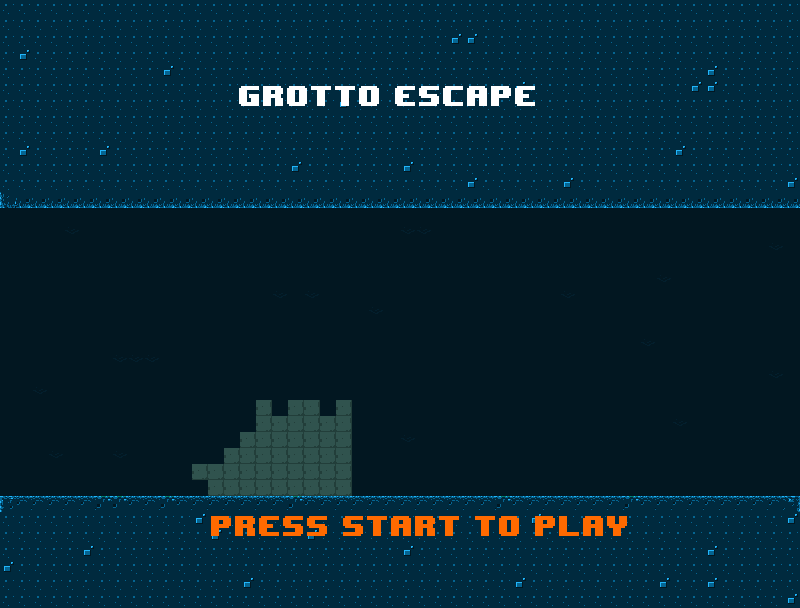
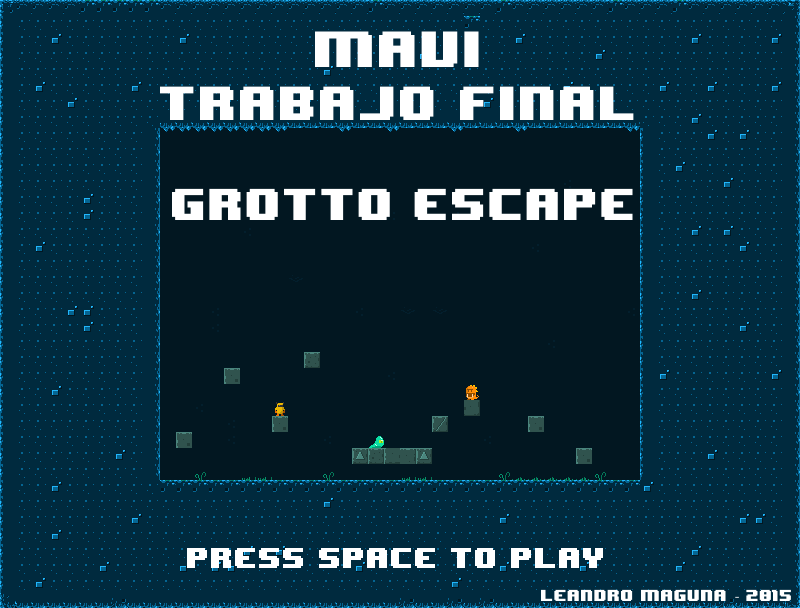
Changed intro scene. Added firemonster collision.

diff --git a/GrottoEscape/GrottoEscape/Game.cpp b/GrottoEscape/GrottoEscape/Game.cpp
@@ -64,6 +64,7 @@ void Game::HandleInput()
 					if (evento.key.code == sf::Keyboard::Escape)
 					{
 						currentState = GameStates::INTRO;
+						wnd->setView(wnd->getDefaultView());
 						main->stop();
 					}
 						
@@ -117,14 +118,11 @@ void Game::MainLoop()
 	map->Load("map_test.tmx");
 	sf::Clock frameClock;
 	sf::Time frameTime;
-	//Player* mPlayer = new Player(wnd,ml.GetLayers());
-	//mPlayer = new Player(wnd, ml.GetLayers());
-	sf::View view;
+
 	view.reset(sf::FloatRect(0, 0, 800/2, 600/2));
 	view.setViewport(sf::FloatRect(0, 0, 1.0f, 1.0f));
 	sf::Vector2f viewPosition(800 / 2, 600 / 2);
 	view.zoom(0.6f);
-
 	sf::Clock clock;
 	sf::Time timeSinceLastUpdate = sf::Time::Zero;	
 
@@ -146,11 +144,7 @@ void Game::MainLoop()
 
 	layers = map->GetLayers();
 
-	hBar = new HealthBar(view.getCenter());
-
-
-
-	
+	hBar = new HealthBar(view.getCenter());	
 
 	while(wnd->isOpen())
 	{
@@ -201,7 +195,7 @@ void Game::MainLoop()
 
 			hBar->setPosition(view.getCenter().x - 105, view.getCenter().y - 75);
 
-		
+			wnd->setView(view);
 
 			if (mPlayer->Succeded() || mPlayer->Dead())
 				main->stop();
@@ -211,8 +205,9 @@ void Game::MainLoop()
 			timeSinceLastUpdate = sf::Time::Zero;
 			clock.restart();
 		}
-			
-		wnd->setView(view);
+
+		
+		
 		HandleInput();
 		
 		Draw();
@@ -284,6 +279,7 @@ void Game::Draw()
 
 		for (size_t i = 0; i < fireMonsters.size(); i++)
 		{
+			if (fireMonsters.at(i)->IsActive())
 			wnd->draw(*fireMonsters.at(i));
 		}
 
@@ -318,6 +314,9 @@ void Game::HandleCollision()
 {
 	for (size_t i = 0; i < fireMonsters.size(); i++)
 	{
+		if (!fireMonsters.at(i)->IsActive())
+			continue;
+
 		if (fireMonsters.at(i)->getGlobalBounds().intersects(mPlayer->getGlobalBounds()))
 			mPlayer->Hit(2);
 	}
@@ -360,6 +359,19 @@ void Game::HandleCollision()
 				if (areaCollision.width >= 10)
 				{
 					slimes.at(j)->Die();
+					mPlayer->bullets.at(i)->SetActive(false);
+				}
+			}
+		}
+
+		for (size_t j = 0; j < fireMonsters.size(); j++)
+		{
+			if (mPlayer->bullets.at(i)->getGlobalBounds().intersects(fireMonsters.at(j)->getGlobalBounds(), areaCollision) && fireMonsters.at(j)->IsActive())
+			{
+				//hack to avoid bullet collision with sprites's transparent area
+				if (areaCollision.width >= 10)
+				{
+					fireMonsters.at(j)->TakeDamage();
 					mPlayer->bullets.at(i)->SetActive(false);
 				}
 			}

diff --git a/GrottoEscape/GrottoEscape/FireMonster.cpp b/GrottoEscape/GrottoEscape/FireMonster.cpp
@@ -29,7 +29,7 @@ FireMonster::FireMonster(sf::Vector2f position, std::vector<tmx::MapLayer> colli
 	jumpRate = 3.0f;
 	jumpTime = 0;
 	setPosition(position);
-
+	active = true;
 }
 
 
@@ -39,7 +39,9 @@ FireMonster::~FireMonster()
 
 void FireMonster::Update(sf::Time dt)
 {
-	
+	if (!IsActive())
+		return;
+
 	jumpTime += dt.asSeconds();
 
 	if (jumpTime >= jumpRate)
@@ -104,4 +106,22 @@ void FireMonster::HandleCollision()
 			}
 		}
 	}
+}
+
+bool FireMonster::IsActive()
+{
+	return active;
+}
+
+void FireMonster::SetActive(bool active)
+{
+	this->active = active;
+}
+
+void FireMonster::TakeDamage()
+{
+	hit++;
+
+	if (hit == 2)
+		SetActive(false);
 }

diff --git a/GrottoEscape/GrottoEscape/Game.h b/GrottoEscape/GrottoEscape/Game.h
@@ -37,6 +37,7 @@ private:
 	sf::Sound *pauseSound;
 	sf::Texture introTexture;
 	sf::Sprite introImage; //placeholder for intro screen
+	sf::View view;
 public:
 
 	float getFPS(const sf::Time& time);
